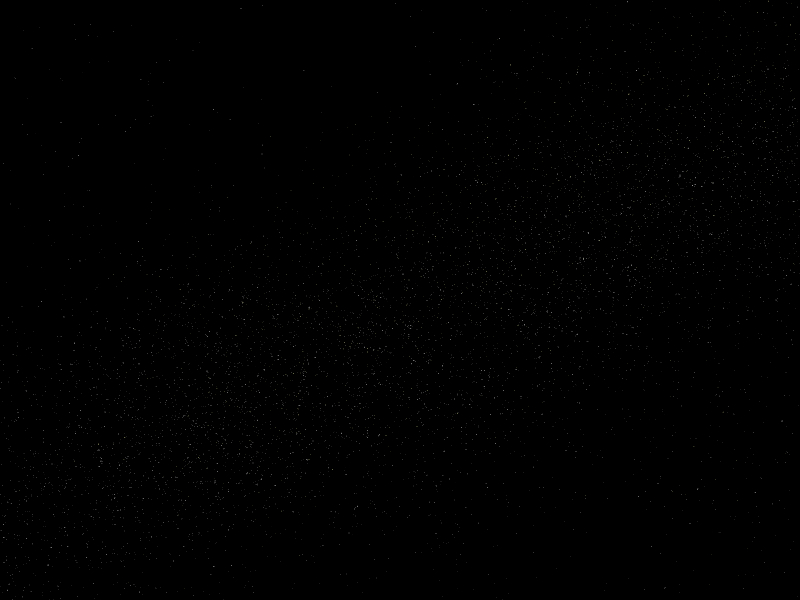
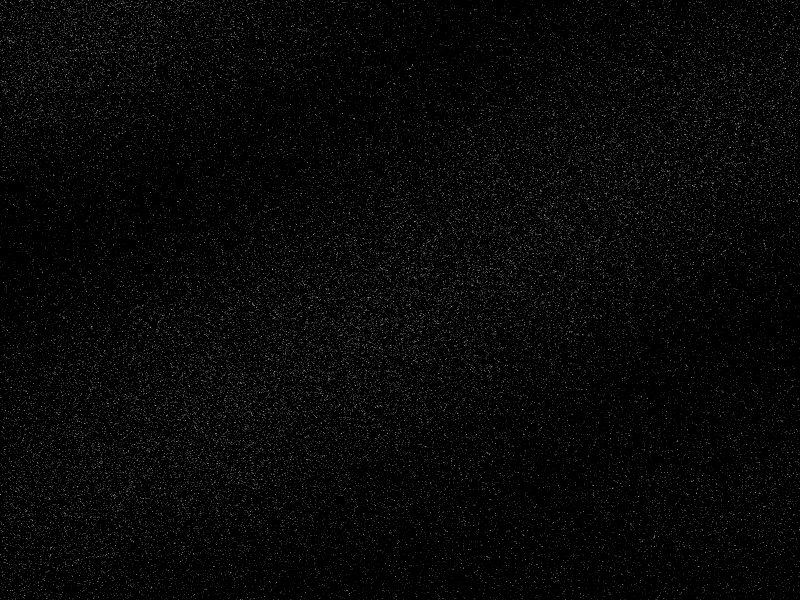
add simple bg translate

diff --git a/src/component/chapter0/Chapter0.js b/src/component/chapter0/Chapter0.js
@@ -6,11 +6,14 @@ import styled from "styled-components";
 import Star from './Star.js';
 import StarMain from './Star.png';
 import StarMain2 from './Star2.png';
+import StarMain3 from './Star3.png';
+import StarMain4 from './Star4.png';
+import StarMain5 from './Star5.png';
 import StarBG from './StarBG.jpg';
 
 import Background from './Background.js';
 
-const starImgPath = [ StarMain, StarMain2 ]
+const starImgPath = [ StarMain, StarMain2, StarMain3, StarMain4, StarMain5 ]
 let currentImgIndex = 0;
 
 export class Chapter0 extends Component {
@@ -47,10 +50,9 @@ export class Chapter0 extends Component {
 
     componentDidMount() {
         this.interval = setInterval(() => {
-            if(currentImgIndex === 0) currentImgIndex = 1;
-            else currentImgIndex = 0;
+            currentImgIndex = this.getRandomInt(0,starImgPath.length-1);
             this.setState({starImg: "url(" + starImgPath[currentImgIndex] + ")"})
-        }, 500)
+        }, 300)
     }
 
     componentWillUnmount() {
@@ -61,7 +63,7 @@ export class Chapter0 extends Component {
     render() {
 
         return(
-            <div>
+            <div className='main'>
             <Background 
                 bgImage={this.state.bgImage} 
                 starTimer={this.state.starTimer}>

diff --git a/src/component/chapter0/Background.js b/src/component/chapter0/Background.js
@@ -8,9 +8,10 @@ const BackgroundMain = styled(motion.div)`
     display: flex;
     justify-content: center;
     width: 100%;
-    height: 100%;
+    height: 200%;
     background-color: black;
     background-image: ${passed => passed.bgimage};
+    /* overflow: hidden; */
     opacity: 0;
 `
 
@@ -20,7 +21,12 @@ function Background(props) {
     useEffect(() => {
         controls.start(i => ({
             opacity: 1,
-            transition: { delay: props.starTimer + 1},
+            y: [null, -500, -800],
+            transition: {
+                delay: props.starTimer + 1,
+                duration: 3,
+                times: [0, 0.5, 1]
+            },
         }))
     }, [])
 

diff --git a/src/App.css b/src/App.css
@@ -3,5 +3,13 @@
   width: 100%;
   height: 100%;
   position: absolute;
+}
+
+.main {
   background-color: black;
+  /* https://stackoverflow.com/questions/3970455/how-to-make-the-overflow-css-property-work-with-hidden-as-value */
+  position: relative;
+  width: 100%;
+  height: 100%;
+  overflow: hidden;
 }
